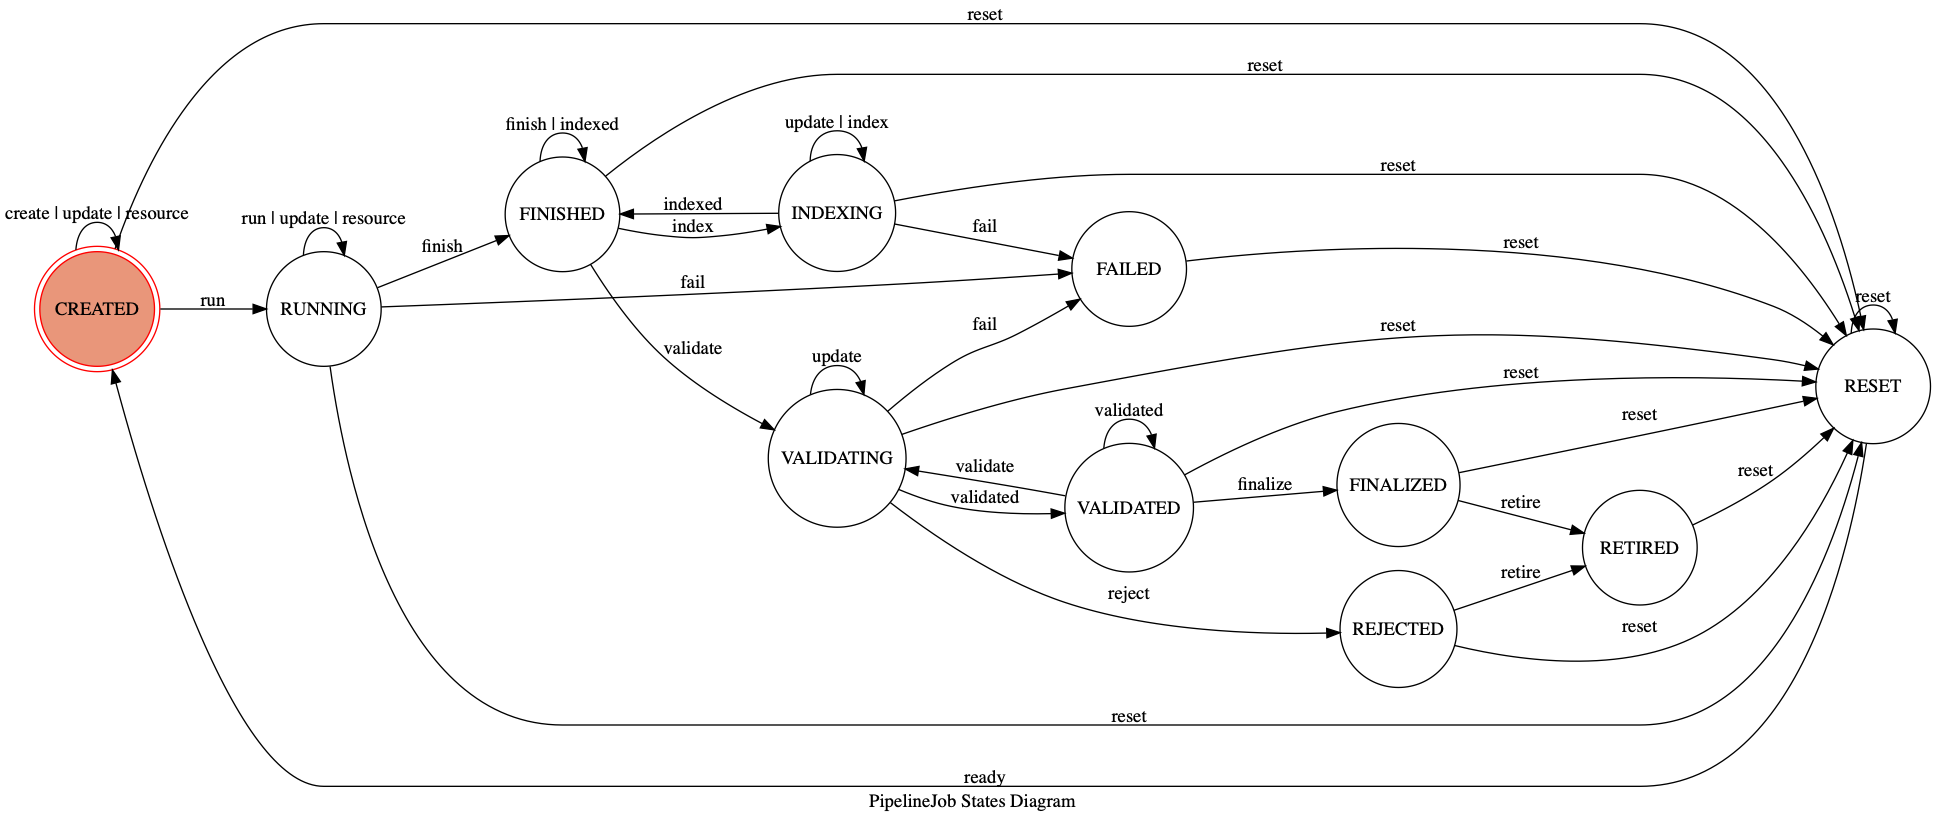
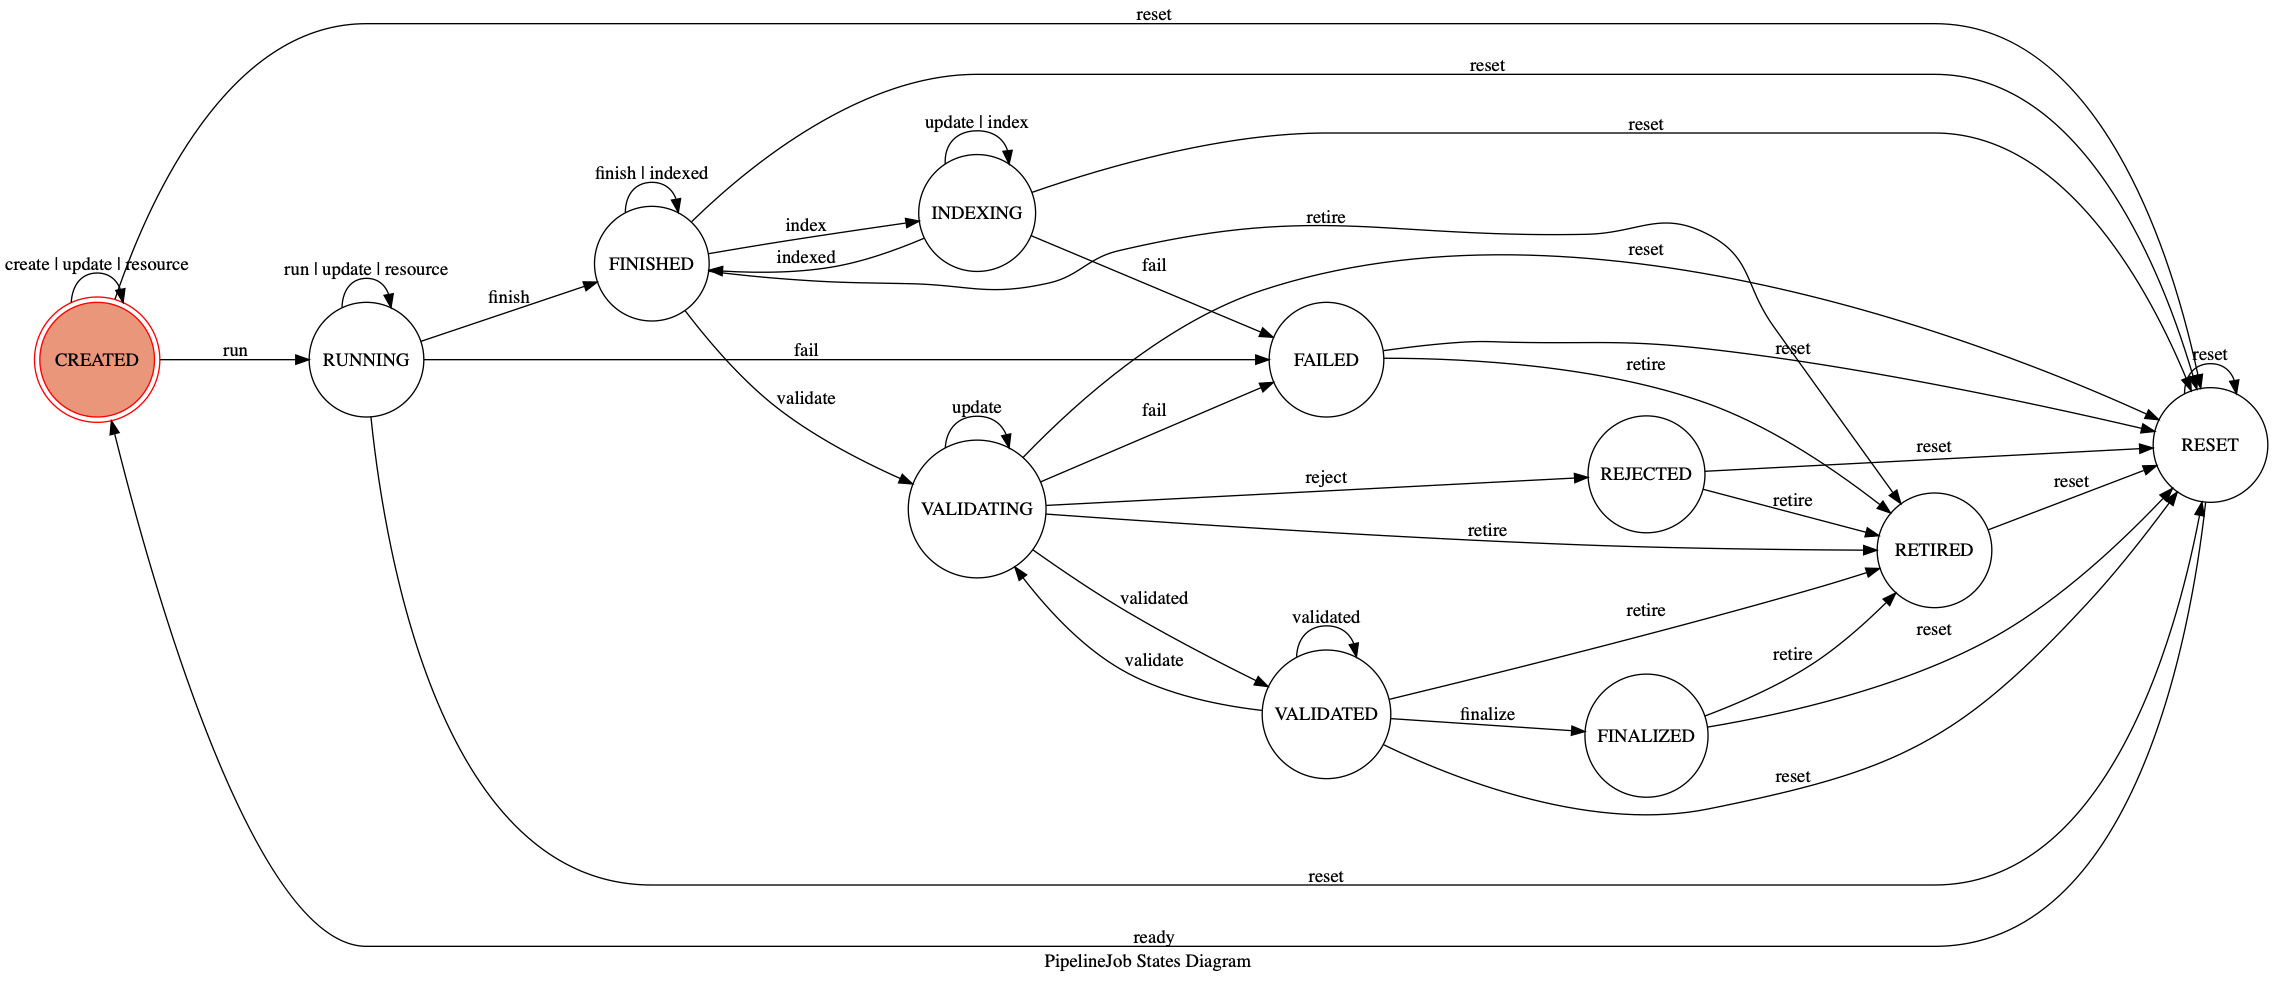
Now possible to transition a PipelineJob to RETIRED from intermediate endpoint states

diff --git a/datacatalog/linkedstores/pipelinejob/fsm.py b/datacatalog/linkedstores/pipelinejob/fsm.py
@@ -64,7 +64,7 @@ class JobStateMachine(Machine):
         {'trigger': 'validated', 'source': ['VALIDATED', 'VALIDATING'], 'dest': 'VALIDATED'},
         {'trigger': 'reject', 'source': 'VALIDATING', 'dest': 'REJECTED'},
         {'trigger': 'finalize', 'source': 'VALIDATED', 'dest': 'FINALIZED'},
-        {'trigger': 'retire', 'source': ['FAILED', 'FINALIZED', 'FINISHED', 'REJECTED'], 'dest': 'RETIRED'},
+        {'trigger': 'retire', 'source': ['FAILED', 'FINALIZED', 'FINISHED', 'REJECTED', 'VALIDATING', 'VALIDATED'], 'dest': 'RETIRED'},
         {'trigger': 'reset', 'source': '*', 'dest': 'RESET'},
         {'trigger': 'ready', 'source': ['RESET'], 'dest': 'CREATED'}
     ]
